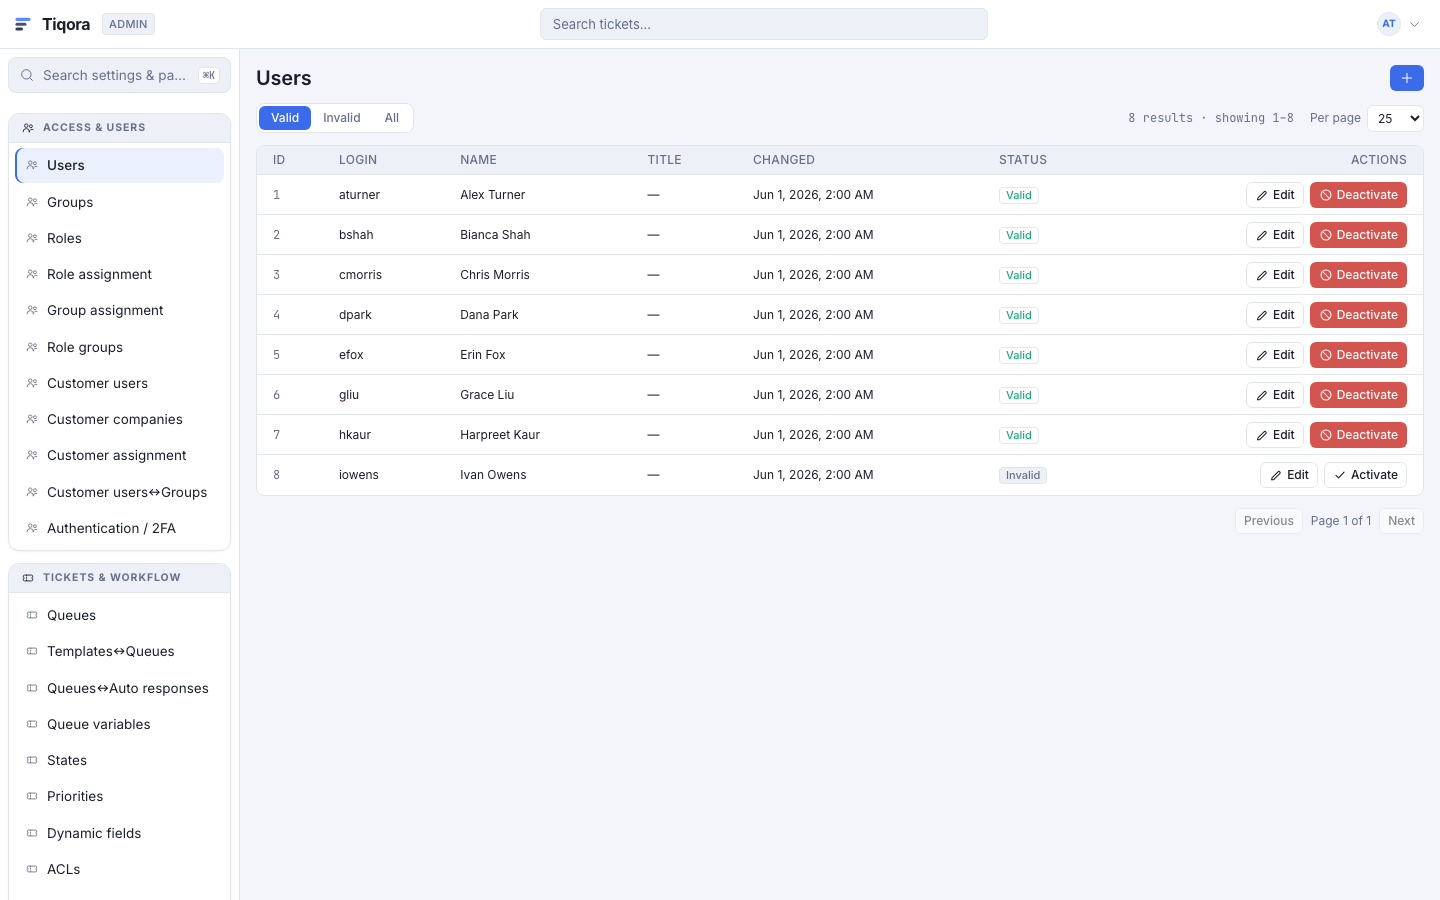
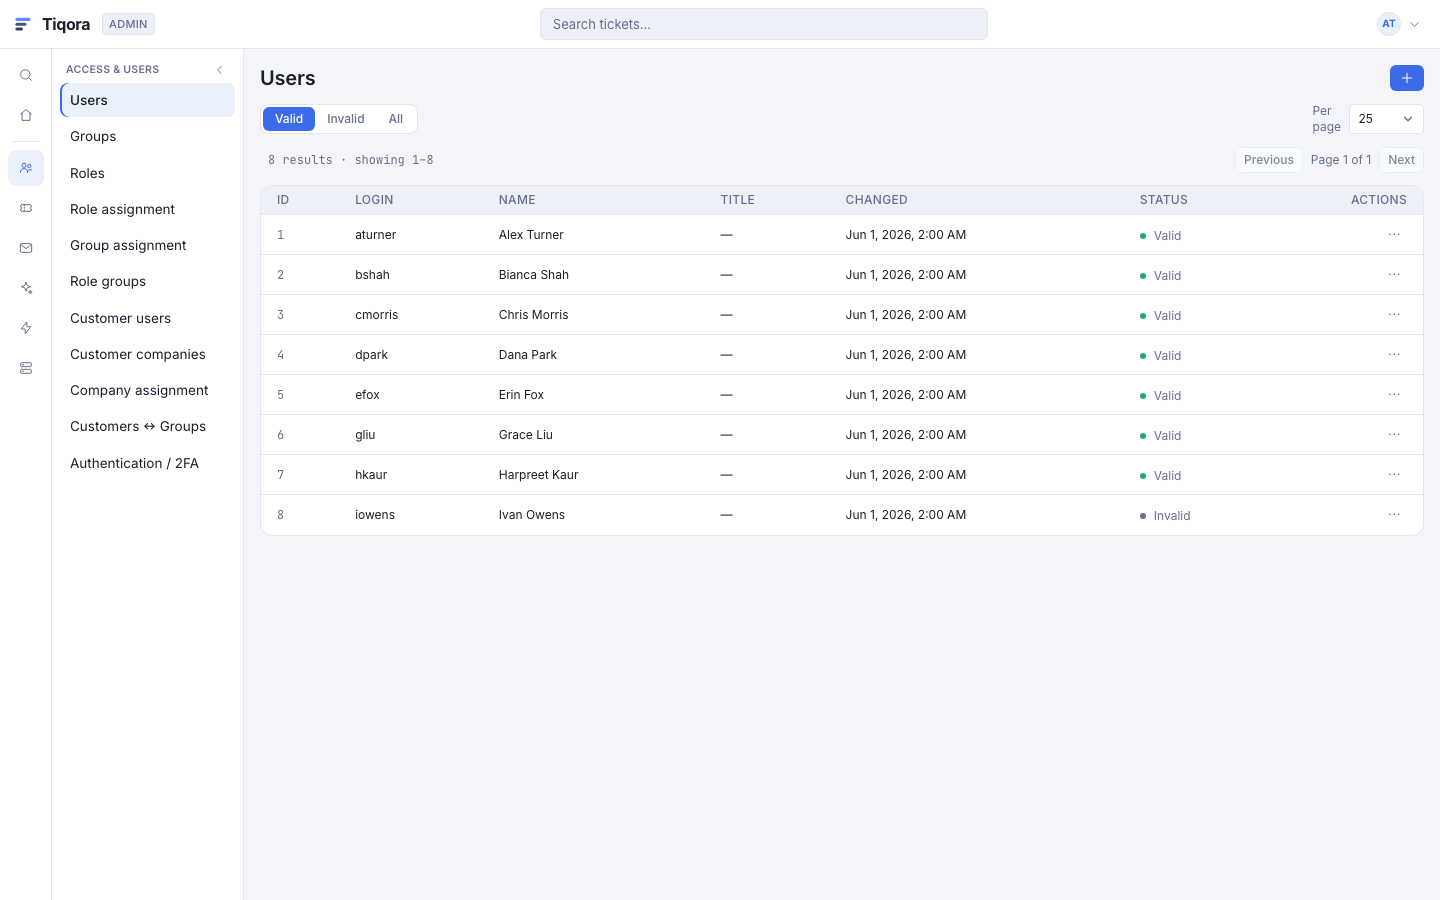
docs: README um AI-Assistenz + SSO-Re-Auth ergänzt, Screenshots aktualisiert
- README: neuer „AI agent assistance"-Punkt (Drafts, Summaries, Auto-Reply,
  Attachment/Vision, PII-Maskierung, Audit, ACL/Limits), Auth-Punkt um nahtlose
  SSO-Re-Auth erweitert, Zeile in „Also included".
- Alle README-/docs-Screenshots neu generiert — u. a. das Admin-Grid im neuen
  Provider-Look (Status-Punkt, ⋯-Menü, Treffer-Zahl + Pagination über der Tabelle).

diff --git a/README.md b/README.md
@@ -32,6 +32,13 @@ not a fork of Znuny — no Znuny source code is included or redistributed.
   you explicitly take schema ownership).
 - **AI-ready ticket search** — Meilisearch indexing plus an **MCP server** so AI agents
   act with the same ACLs as humans.
+- **AI agent assistance** — per-queue policies drive **draft replies**, **state-only
+  ticket summaries** (document- and attachment-aware), and an optional **autonomous
+  auto-reply** worker. Attachments get text extraction plus a **vision pre-pass** for
+  images; sensitive data is **PII-masked (spaCy NER)** before any LLM call; every
+  request lands in an **audit log** with per-subject ACLs and token/request limits.
+  Bring your own OpenAI-compatible or Anthropic providers. Gated by the operation mode
+  so nothing autonomous runs during parallel operation.
 - **GDPR tooling** — anonymization, retention jobs, and audit trails in admin.
 - **Modern design** — dark/light themes, EN + DE i18n, compact cobalt design system.
 - **No Perl application stack** — Python FastAPI + React throughout Tiqora itself
@@ -39,7 +46,8 @@ not a fork of Znuny — no Znuny source code is included or redistributed.
 - **Customer portal & knowledge base** — self-service tickets and Markdown KB.
 - **Integration-friendly** — REST `/api/v1`, GenericInterface REST/SOAP compatibility,
   webhooks, channel plugins (email, SMS, WhatsApp, phone/CTI).
-- **Modern auth** — legacy password hashes, OIDC, LDAP/AD, Kerberos/SPNEGO, TOTP, passkeys.
+- **Modern auth** — legacy password hashes, OIDC, LDAP/AD, Kerberos/SPNEGO (with
+  **seamless re-auth** when a session expires), enforceable TOTP, and passkeys.
 
 ## Live product site & demo
 
@@ -85,6 +93,7 @@ VITE_BASE=/tiqora/demo/ pnpm --filter tiqora-frontend build:demo
 | Ticket write path + Znuny invariants | Golden-master tested against Znuny 6.5 behaviour |
 | GenericInterface compatibility | TicketCreate/Update/Get/Search, SessionCreate; REST + SOAP |
 | MCP tools | `ticket_*`, customer lookup, KB — see [docs/ai-integration.md](./docs/ai-integration.md) |
+| AI assistance subsystem | Draft replies, summaries, auto-reply worker, attachment/vision, PII masking, per-subject ACL & audit — `/admin/ai/*`, [docs/ai-integration.md](./docs/ai-integration.md) |
 | Daemon takeover (mail, escalation, notify, GA) | Per-function flags, off by default |
 | Calendar / appointments | Month/week/agenda UI; reuses Znuny `calendar*` tables |
 | Process management (BPM) | Reuses Znuny `pm_*` tables — [docs/process-management.md](./docs/process-management.md) |
